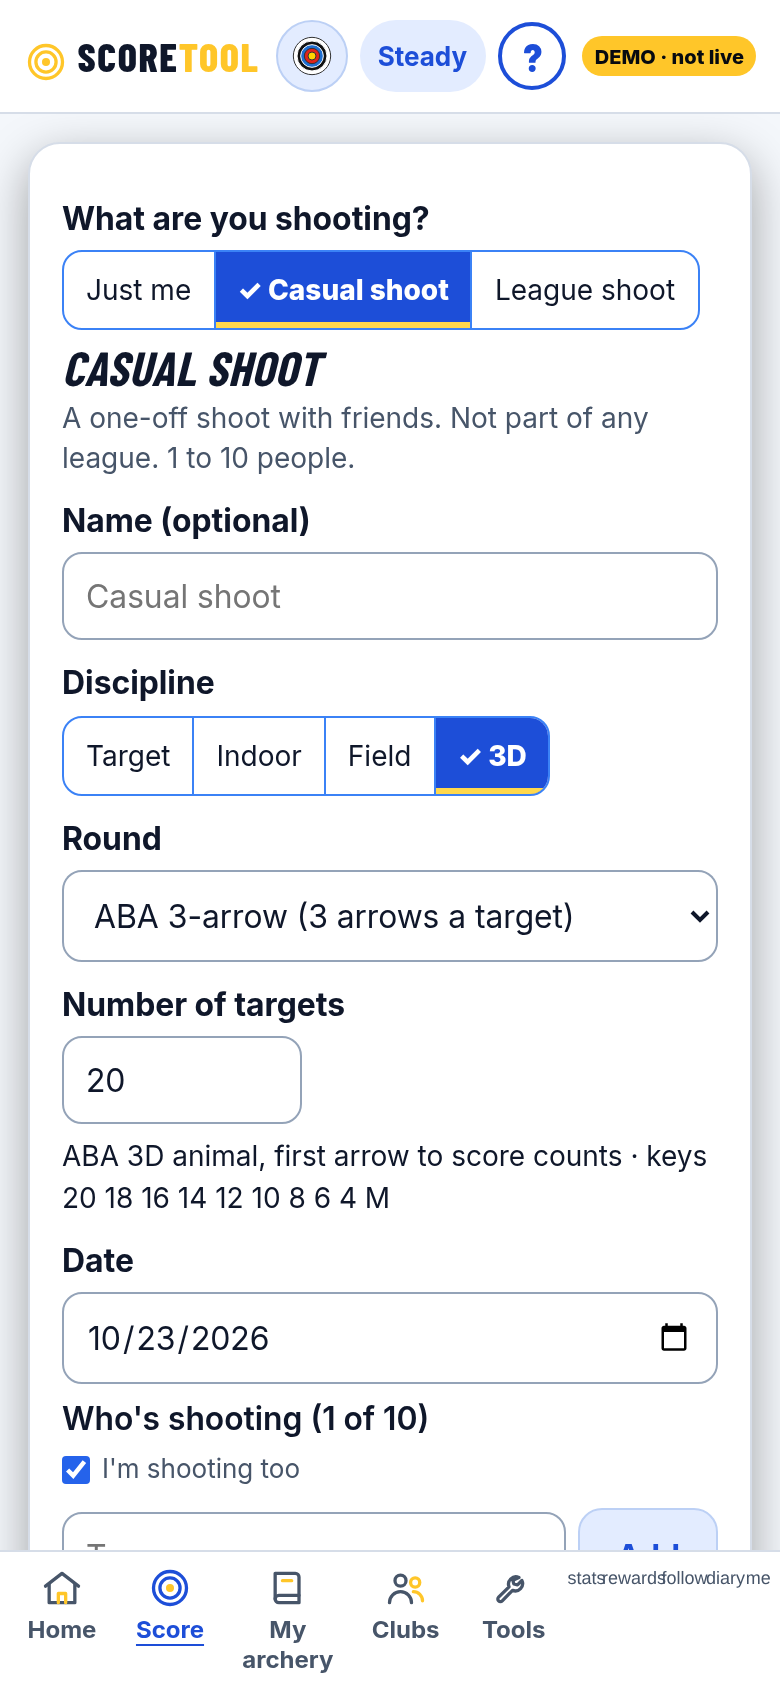
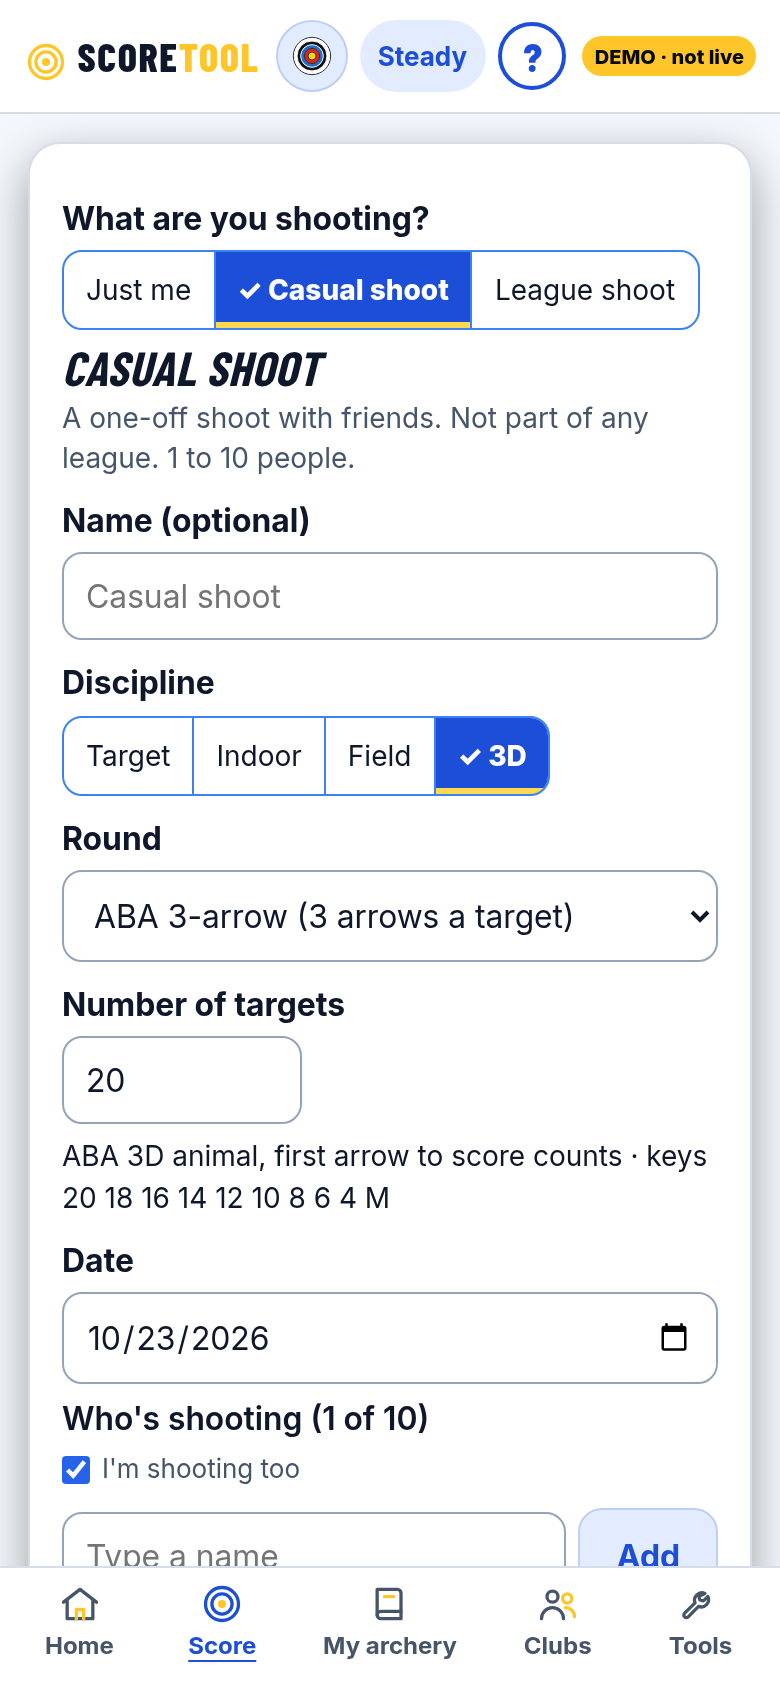
Tests: nav_compat old-tab buttons are invisible corner hit targets, so test screenshots no longer show stray 'statsrewardsfollowdiaryme' (test-only; the real five-tab nav never had it)

diff --git a/index.html b/index.html
@@ -1,6 +1,6 @@
 <!doctype html><html lang="en"><head><meta charset="utf-8"><meta name="viewport" content="width=device-width,initial-scale=1,maximum-scale=1,user-scalable=no,viewport-fit=cover">
-<title>ScoreTool demo · Archery Calendars</title><meta name="robots" content="noindex"><link rel="apple-touch-icon" href="icons/apple-touch-icon.png" sizes="180x180"><link rel="icon" type="image/png" href="favicon-32.png" sizes="32x32"><link rel="icon" type="image/png" href="favicon-16.png" sizes="16x16"><link rel="icon" href="favicon.ico" sizes="any"><link rel="icon" type="image/svg+xml" href="icons/icon.svg"><script>/* light (default) or dark, remembered on this device (scoretool.theme) */document.documentElement.setAttribute("data-theme",localStorage.getItem("scoretool.theme")=="dark"?"dark":"light");/* iOS home-screen app: mark the root so lab.css can size the shell to the full screen (navigator.standalone covers iOS where display-mode:standalone does not match) */try{if(navigator.standalone||matchMedia("(display-mode: standalone)").matches)document.documentElement.classList.add("standalone")}catch(e){}/* fix 5: home-screen app height. If the page runs under the status bar (safe-area top > 0) the true visible height is the physical screen height (screen.height can never overshoot, unlike 100lvh, and is not shortened like innerHeight on some iOS versions). Otherwise innerHeight is right. Never smaller than innerHeight. */(function(){var r=document.documentElement;function f(){var I=window.innerHeight,H=I;try{if(r.classList.contains("standalone")&&document.body){var d=document.createElement("div");d.style.cssText="position:absolute;top:0;left:0;width:1px;height:0;visibility:hidden;padding-top:env(safe-area-inset-top,0px)";document.body.appendChild(d);var sat=d.getBoundingClientRect().height;d.remove();var sw=screen.width,sh=screen.height,S=(window.innerWidth>I)?Math.min(sw,sh):Math.max(sw,sh);if(sat>0&&S>I)H=S}}catch(e){}if(I>0)r.style.setProperty("--apph",H+"px")}f();addEventListener("DOMContentLoaded",f);addEventListener("load",f);addEventListener("resize",f);addEventListener("orientationchange",function(){setTimeout(f,300)});addEventListener("pageshow",f)})()</script><link rel="stylesheet" href="style.css?v=202610231409"><link rel="stylesheet" href="lab.css?v=202610231409"><link rel="manifest" href="manifest.webmanifest"><meta name="theme-color" content="#0b0f17"><meta name="apple-mobile-web-app-capable" content="yes"><meta name="apple-mobile-web-app-title" content="ScoreTool"></head>
+<title>ScoreTool demo · Archery Calendars</title><meta name="robots" content="noindex"><link rel="apple-touch-icon" href="icons/apple-touch-icon.png" sizes="180x180"><link rel="icon" type="image/png" href="favicon-32.png" sizes="32x32"><link rel="icon" type="image/png" href="favicon-16.png" sizes="16x16"><link rel="icon" href="favicon.ico" sizes="any"><link rel="icon" type="image/svg+xml" href="icons/icon.svg"><script>/* light (default) or dark, remembered on this device (scoretool.theme) */document.documentElement.setAttribute("data-theme",localStorage.getItem("scoretool.theme")=="dark"?"dark":"light");/* iOS home-screen app: mark the root so lab.css can size the shell to the full screen (navigator.standalone covers iOS where display-mode:standalone does not match) */try{if(navigator.standalone||matchMedia("(display-mode: standalone)").matches)document.documentElement.classList.add("standalone")}catch(e){}/* fix 5: home-screen app height. If the page runs under the status bar (safe-area top > 0) the true visible height is the physical screen height (screen.height can never overshoot, unlike 100lvh, and is not shortened like innerHeight on some iOS versions). Otherwise innerHeight is right. Never smaller than innerHeight. */(function(){var r=document.documentElement;function f(){var I=window.innerHeight,H=I;try{if(r.classList.contains("standalone")&&document.body){var d=document.createElement("div");d.style.cssText="position:absolute;top:0;left:0;width:1px;height:0;visibility:hidden;padding-top:env(safe-area-inset-top,0px)";document.body.appendChild(d);var sat=d.getBoundingClientRect().height;d.remove();var sw=screen.width,sh=screen.height,S=(window.innerWidth>I)?Math.min(sw,sh):Math.max(sw,sh);if(sat>0&&S>I)H=S}}catch(e){}if(I>0)r.style.setProperty("--apph",H+"px")}f();addEventListener("DOMContentLoaded",f);addEventListener("load",f);addEventListener("resize",f);addEventListener("orientationchange",function(){setTimeout(f,300)});addEventListener("pageshow",f)})()</script><link rel="stylesheet" href="style.css?v=202610231417"><link rel="stylesheet" href="lab.css?v=202610231417"><link rel="manifest" href="manifest.webmanifest"><meta name="theme-color" content="#0b0f17"><meta name="apple-mobile-web-app-capable" content="yes"><meta name="apple-mobile-web-app-title" content="ScoreTool"></head>
 <body><div id="shell"><header class="top"><div class="logo">🎯 Score<span>Tool</span></div><span class="demo-pill">DEMO · not live</span></header>
 <div id="scroller"><main id="app" aria-live="polite"></main><p class="small muted" style="text-align:center;margin:8px 16px 16px">This app tracks and celebrates your shooting. Always follow your coach's advice.</p></div>
 <nav class="tabs" id="tabs" aria-label="Sections"><button data-v="home">🏠<span>Home</span></button><button data-v="score">🎯<span>Score</span></button><button data-v="myarch">📓<span>My archery</span></button><button data-v="clubs">👥<span>Clubs</span></button><button data-v="tools">🔧<span>Tools</span></button></nav></div><script>/* app shell: the page scrolls inside #scroller, not the window; keep window.scrollTo/scrollY/scroll listeners working */(function(){var W=window,sc=document.getElementById("scroller");if(!sc)return;W.scrollTo=function(x,y){typeof x=="object"&&x?sc.scrollTo(x):sc.scrollTo(+x||0,+y||0)};W.scroll=W.scrollTo;W.scrollBy=function(x,y){typeof x=="object"&&x?sc.scrollBy(x):sc.scrollBy(+x||0,+y||0)};try{Object.defineProperty(W,"scrollY",{get:function(){return sc.scrollTop},configurable:true});Object.defineProperty(W,"pageYOffset",{get:function(){return sc.scrollTop},configurable:true});Object.defineProperty(W,"scrollX",{get:function(){return sc.scrollLeft},configurable:true})}catch(e){}sc.addEventListener("scroll",function(){W.dispatchEvent(new Event("scroll"))},{passive:true});W.__scroller=sc})();</script>
-<script src="icons.js?v=202610231409"></script><script src="coach_messages.js"></script><script src="ratings.js"></script><script src="rankings.js"></script><script src="tags.js?v=202610231409"></script><script src="testers.js?v=202610231409"></script><script src="app.js?v=202610231409"></script><script src="diary.js"></script><script src="gear.js?v=202610231409"></script><script src="sightest.js?v=202610231409"></script><script src="sightimport.js?v=202610231409"></script><script src="sightseed_nathe.js?v=202610231409"></script><script src="rewards.js"></script><script src="squads.js"></script><script src="fairplay.js"></script><script src="follow.js"></script><script src="help.js?v=202610231409"></script><script src="whatsnew.js?v=202610231409"></script><script src="analytics.js?v=202610231409"></script><script src="insights.js?v=202610231409"></script><script src="best.js?v=202610231409"></script><script src="real.js?v=202610231409"></script><script src="aba.js?v=202610231409"></script><script src="share.js?v=202610231409"></script><script src="stats2.js?v=202610231409"></script><script src="h2h.js?v=202610231409"></script><script src="names.js?v=202610231409"></script><script src="shootup.js?v=202610231409"></script><script src="league.js?v=202610231409"></script><script src="casual.js?v=202610231409"></script><script src="peel.js?v=202610231409"></script><script src="rules_wa_aa.js?v=202610231409"></script><script src="rules_data.js?v=202610231409"></script><script src="lab.js?v=202610231409"></script><script src="arrowchooser.js?v=202610231409"></script><script src="bows.js?v=202610231409"></script><script src="arrows.js?v=202610231409"></script><script src="calsync.js?v=202610231409"></script><script src="photos.js?v=202610231409"></script><script src="update.js?v=202610231409"></script></body></html>
+<script src="icons.js?v=202610231417"></script><script src="coach_messages.js"></script><script src="ratings.js"></script><script src="rankings.js"></script><script src="tags.js?v=202610231417"></script><script src="testers.js?v=202610231417"></script><script src="app.js?v=202610231417"></script><script src="diary.js"></script><script src="gear.js?v=202610231417"></script><script src="sightest.js?v=202610231417"></script><script src="sightimport.js?v=202610231417"></script><script src="sightseed_nathe.js?v=202610231417"></script><script src="rewards.js"></script><script src="squads.js"></script><script src="fairplay.js"></script><script src="follow.js"></script><script src="help.js?v=202610231417"></script><script src="whatsnew.js?v=202610231417"></script><script src="analytics.js?v=202610231417"></script><script src="insights.js?v=202610231417"></script><script src="best.js?v=202610231417"></script><script src="real.js?v=202610231417"></script><script src="aba.js?v=202610231417"></script><script src="share.js?v=202610231417"></script><script src="stats2.js?v=202610231417"></script><script src="h2h.js?v=202610231417"></script><script src="names.js?v=202610231417"></script><script src="shootup.js?v=202610231417"></script><script src="league.js?v=202610231417"></script><script src="casual.js?v=202610231417"></script><script src="peel.js?v=202610231417"></script><script src="rules_wa_aa.js?v=202610231417"></script><script src="rules_data.js?v=202610231417"></script><script src="lab.js?v=202610231417"></script><script src="arrowchooser.js?v=202610231417"></script><script src="bows.js?v=202610231417"></script><script src="arrows.js?v=202610231417"></script><script src="calsync.js?v=202610231417"></script><script src="photos.js?v=202610231417"></script><script src="update.js?v=202610231417"></script></body></html>

diff --git a/sw.js b/sw.js
@@ -1,4 +1,4 @@
-/* ScoreTool service worker v2026-10-23-1409-auto (offline, 20 Oct 2026). Built by tools/build_sw.py: do not edit sw.js by hand.
+/* ScoreTool service worker v2026-10-23-1417-auto (offline, 20 Oct 2026). Built by tools/build_sw.py: do not edit sw.js by hand.
    Install: precache the app shell, every script and style index.html loads, fonts, icons and all data files, then take over
    (skipWaiting), so the app reopens from scratch with no signal (Peel group card included).
    Fetch (same-origin GET only): network first, so a new deploy always shows; anything that answers is saved to the cache. With no
@@ -6,7 +6,7 @@
    to the cached index.html. version.json and sw.js are never served from the cache, so the update check (update.js) only ever
    sees the real live version. Cross-origin requests (ntfy relay, archerycalendars.com) are not touched.
    Activate: delete every older scoretool-* cache. A new version = a new sw.js, so the browser installs it on the next check. */
-const V='v2026-10-23-1409-auto',CACHE='scoretool-'+V,PRE=["./", "index.html", "version.json", "icons/apple-touch-icon.png", "favicon-32.png", "favicon-16.png", "favicon.ico", "icons/icon.svg", "style.css", "lab.css", "manifest.webmanifest", "icons.js", "coach_messages.js", "ratings.js", "rankings.js", "tags.js", "testers.js", "app.js", "diary.js", "gear.js", "sightest.js", "sightimport.js", "sightseed_nathe.js", "rewards.js", "squads.js", "fairplay.js", "follow.js", "help.js", "whatsnew.js", "analytics.js", "insights.js", "best.js", "real.js", "aba.js", "share.js", "stats2.js", "h2h.js", "names.js", "shootup.js", "league.js", "casual.js", "peel.js", "rules_wa_aa.js", "rules_data.js", "lab.js", "arrowchooser.js", "bows.js", "arrows.js", "calsync.js", "photos.js", "update.js", "fonts/BarlowCondensed-Bold.woff2", "fonts/BarlowCondensed-ExtraBold.woff2", "fonts/Inter-var.woff2", "icons/icon-192.png", "icons/icon-512-maskable.png", "icons/icon-512.png", "data/ad_dana.json", "data/ad_darnie.json", "data/ad_estiaan.json", "data/ad_joseph.json", "data/ad_logan.json", "data/ad_michael.json", "data/ad_phill.json", "data/ad_steven.json", "data/ad_tahuri.json", "data/archer_scores.csv", "data/arrows.csv", "data/bow_specs.json", "data/ghost_top.json", "data/my_scoresheets.json", "data/nathe_ad.json", "data/rankings.json", "data/sheets_dana.json", "data/sheets_darnie.json", "data/sheets_estiaan.json", "data/sheets_joseph.json", "data/sheets_logan.json", "data/sheets_michael.json", "data/sheets_phill.json", "data/sheets_steven.json", "data/sheets_tahuri.json", "help/g/casual-dark.webp", "help/g/casual-light.webp", "help/g/clubs-dark.webp", "help/g/clubs-light.webp", "help/g/myarch-dark.webp", "help/g/myarch-light.webp", "help/g/score-dark.webp", "help/g/score-light.webp", "help/g/scoring-dark.webp", "help/g/scoring-light.webp", "help/g/settings-dark.webp", "help/g/settings-light.webp", "help/g/start-dark.webp", "help/g/start-light.webp", "help/g/stats-dark.webp", "help/g/stats-light.webp", "help/g/tools-dark.webp", "help/g/tools-light.webp"],WAIT=3500;
+const V='v2026-10-23-1417-auto',CACHE='scoretool-'+V,PRE=["./", "index.html", "version.json", "icons/apple-touch-icon.png", "favicon-32.png", "favicon-16.png", "favicon.ico", "icons/icon.svg", "style.css", "lab.css", "manifest.webmanifest", "icons.js", "coach_messages.js", "ratings.js", "rankings.js", "tags.js", "testers.js", "app.js", "diary.js", "gear.js", "sightest.js", "sightimport.js", "sightseed_nathe.js", "rewards.js", "squads.js", "fairplay.js", "follow.js", "help.js", "whatsnew.js", "analytics.js", "insights.js", "best.js", "real.js", "aba.js", "share.js", "stats2.js", "h2h.js", "names.js", "shootup.js", "league.js", "casual.js", "peel.js", "rules_wa_aa.js", "rules_data.js", "lab.js", "arrowchooser.js", "bows.js", "arrows.js", "calsync.js", "photos.js", "update.js", "fonts/BarlowCondensed-Bold.woff2", "fonts/BarlowCondensed-ExtraBold.woff2", "fonts/Inter-var.woff2", "icons/icon-192.png", "icons/icon-512-maskable.png", "icons/icon-512.png", "data/ad_dana.json", "data/ad_darnie.json", "data/ad_estiaan.json", "data/ad_joseph.json", "data/ad_logan.json", "data/ad_michael.json", "data/ad_phill.json", "data/ad_steven.json", "data/ad_tahuri.json", "data/archer_scores.csv", "data/arrows.csv", "data/bow_specs.json", "data/ghost_top.json", "data/my_scoresheets.json", "data/nathe_ad.json", "data/rankings.json", "data/sheets_dana.json", "data/sheets_darnie.json", "data/sheets_estiaan.json", "data/sheets_joseph.json", "data/sheets_logan.json", "data/sheets_michael.json", "data/sheets_phill.json", "data/sheets_steven.json", "data/sheets_tahuri.json", "help/g/casual-dark.webp", "help/g/casual-light.webp", "help/g/clubs-dark.webp", "help/g/clubs-light.webp", "help/g/myarch-dark.webp", "help/g/myarch-light.webp", "help/g/score-dark.webp", "help/g/score-light.webp", "help/g/scoring-dark.webp", "help/g/scoring-light.webp", "help/g/settings-dark.webp", "help/g/settings-light.webp", "help/g/start-dark.webp", "help/g/start-light.webp", "help/g/stats-dark.webp", "help/g/stats-light.webp", "help/g/tools-dark.webp", "help/g/tools-light.webp"],WAIT=3500;
 const key=u=>{const x=new URL(u,self.registration.scope);x.search='';x.hash='';return x.href};
 self.addEventListener('install',e=>e.waitUntil(caches.open(CACHE).then(c=>Promise.all(PRE.map(u=>fetch(new Request(u,{cache:'reload'})).then(r=>{if(r&&r.ok)return c.put(key(u),r)}).catch(()=>{})))).then(()=>self.skipWaiting())));
 self.addEventListener('activate',e=>e.waitUntil(caches.keys().then(K=>Promise.all(K.filter(k=>k.startsWith('scoretool-')&&k!=CACHE).map(k=>caches.delete(k)))).then(()=>self.clients.claim())));

diff --git a/tools/nav_compat.py b/tools/nav_compat.py
@@ -4,9 +4,10 @@ from playwright.sync_api._generated import Browser
 # (Home, Score, My archery, Clubs, Tools). These suites were written for the old tabs, so after load we add the old tab
 # buttons (stats, rewards, follow, diary, me) to the nav, each opening the same old full screen it always did, and the
 # Score start screen shows the league / match / group cards again (in the new layout they live under Clubs). The checks
-# in each suite are unchanged.
+# in each suite are unchanged. The old tab buttons are invisible 4px hit targets in the corner (23 Oct 2026), so screenshots
+# from these suites no longer show stray 'statsrewardsfollowdiaryme' text at the right of the bottom nav.
 COMPAT="""addEventListener('load',()=>setTimeout(()=>{try{const t=document.getElementById('tabs');if(!t||typeof render!='function')return;
-['stats','rewards','follow','diary','me'].forEach(v=>{if(t.querySelector('[data-v='+v+']'))return;const b=document.createElement('button');b.dataset.v=v;b.textContent=v;b.style.cssText='font-size:9px;min-width:0;padding:2px';
+['stats','rewards','follow','diary','me'].forEach((v,i)=>{if(t.querySelector('[data-v='+v+']'))return;const b=document.createElement('button');b.dataset.v=v;b.textContent=v;b.setAttribute('aria-hidden','true');b.style.cssText='position:fixed;left:'+(i*5)+'px;bottom:0;width:4px;height:4px;min-width:0;min-height:0;padding:0;margin:0;border:0;font-size:1px;line-height:1px;overflow:hidden;opacity:0;z-index:2147483647';
 b.addEventListener('click',e=>{e.stopImmediatePropagation();e.preventDefault();view=v;render();scrollTo(0,0)},true);t.appendChild(b)});
 const OLD=['stats','rewards','follow','diary','me'],n0=nav;nav=function(v){if(OLD.includes(v)){view=v;render();scrollTo(0,0);return}return n0.apply(this,arguments)};const s0=score,K=['h2hcard','lgcard','pgcard'];score=function(){const r=Element.prototype.remove;Element.prototype.remove=function(){if(K.includes(this.id))return;return r.call(this)};try{return s0.apply(this,arguments)}finally{Element.prototype.remove=r}};}catch(e){console.log('compat',e)}},0))"""
 import os
